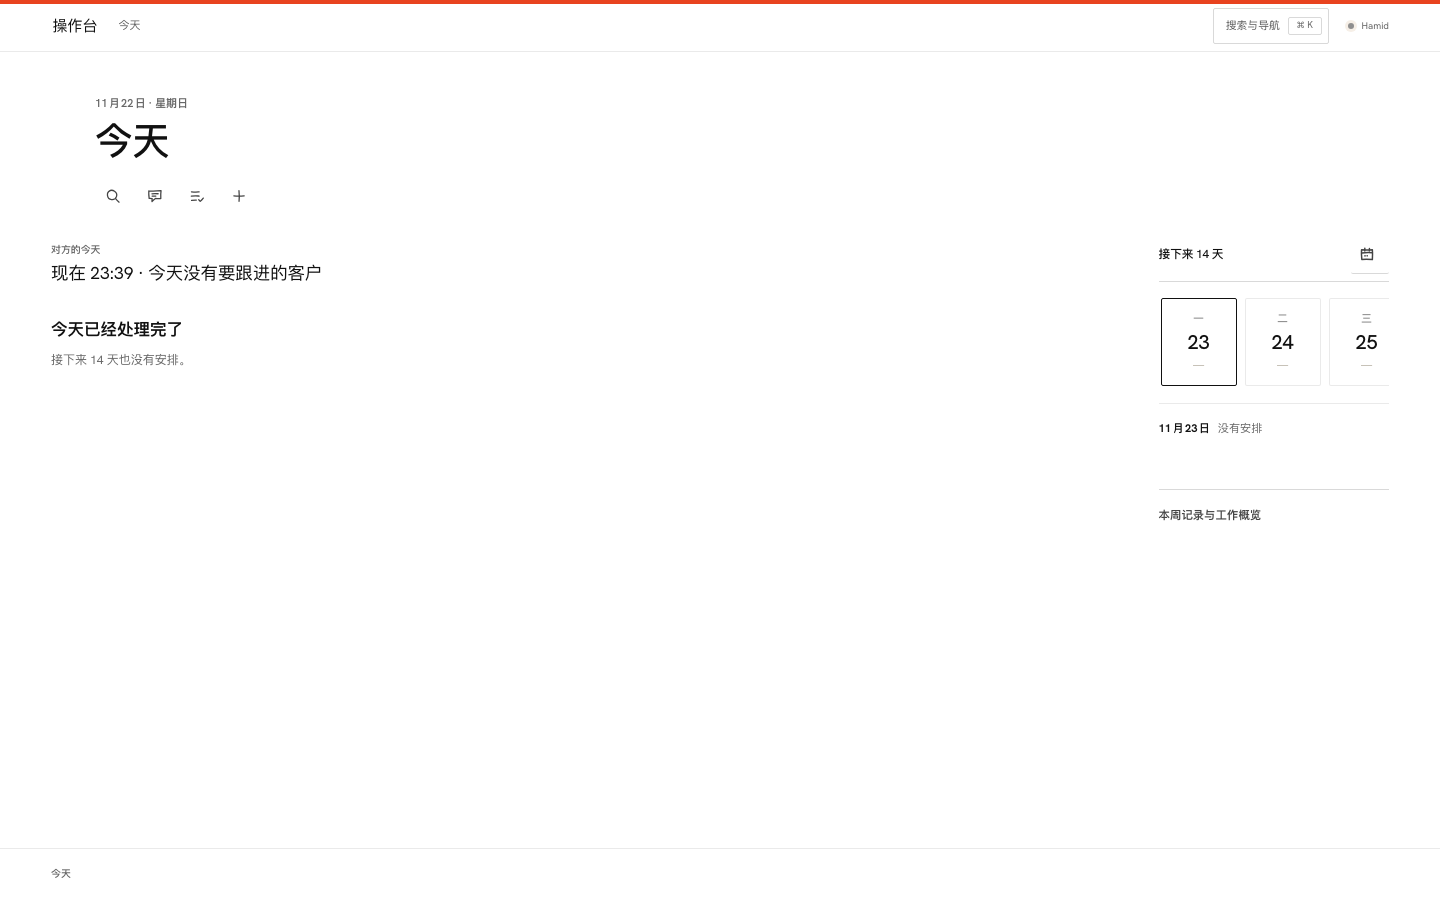
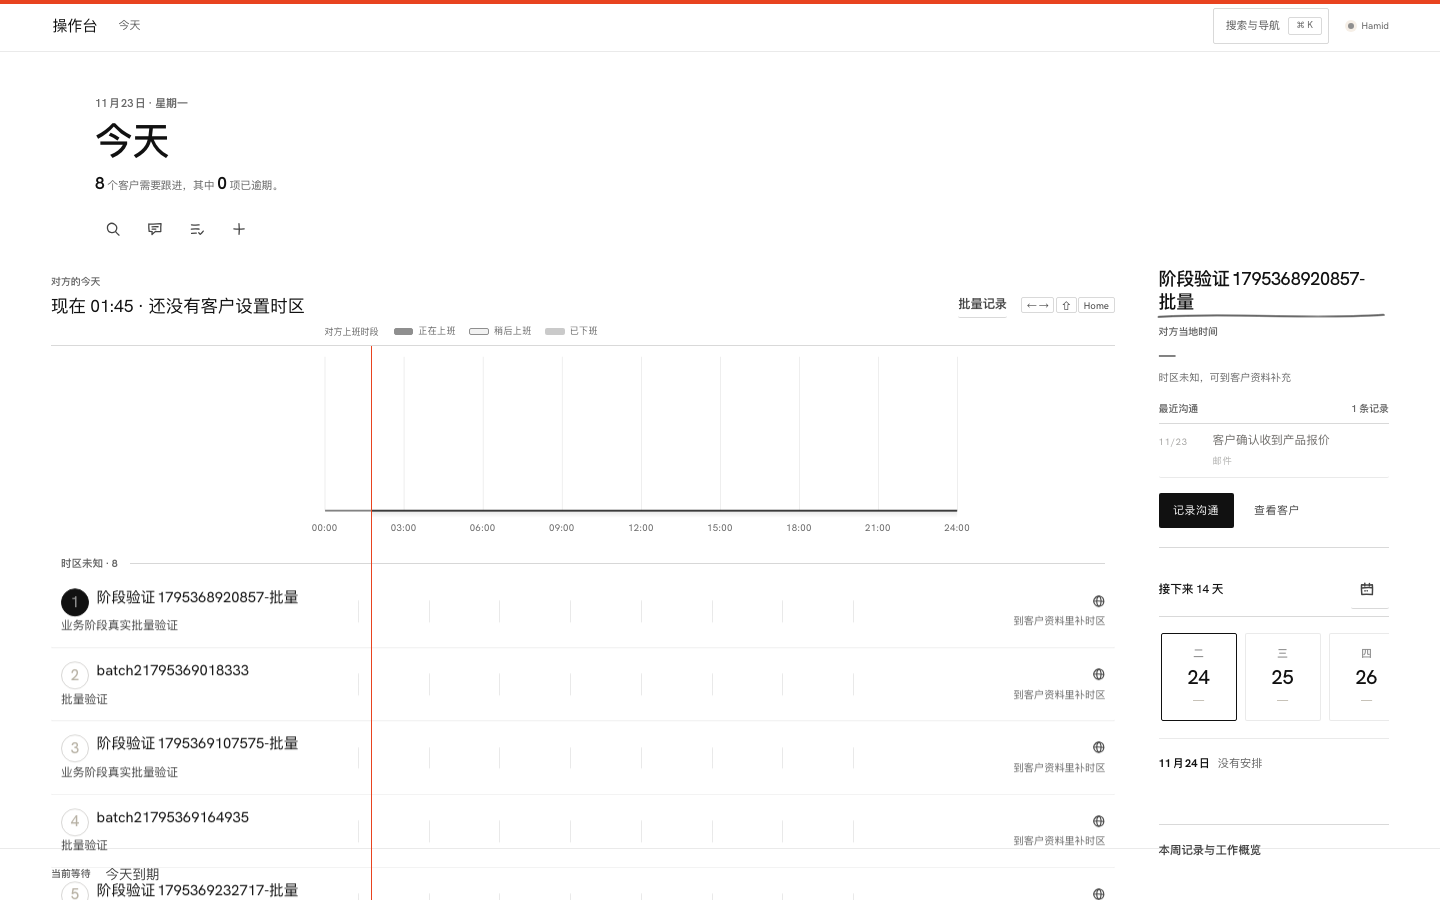
补齐业务阶段真实批量保存验证与旧库迁移兼容
(cherry picked from commit c6c2b53a361acd70c433314c6b5a00d6ba481bfb)

diff --git a/app.py b/app.py
@@ -20768,10 +20768,14 @@ def update_customer_profile(customer_id, data, before_commit=None):
     """Update only ordinary customer profile fields with the standard undo transaction."""
     data = data or {}
     allowed = ('name', 'company', 'country', 'website', 'field', 'industry', 'company_size', 'annual_revenue',
-               'profile', 'notes', 'tags')
+               'profile', 'notes', 'tags', 'business_role', 'business_stage')
     supplied = {key: data[key] for key in allowed if key in data}
     if not supplied:
         raise CrmWriteError('请提供至少一个可更新的客户资料字段')
+    if 'business_role' in supplied and supplied['business_role'] not in ('', '中间商', '终端'):
+        raise CrmWriteError('客户角色只能是中间商、终端或留空')
+    if 'business_stage' in supplied and supplied['business_stage'] not in BUSINESS_STAGE_VALUES:
+        raise CrmWriteError(BUSINESS_STAGE_ERROR)
 
     def operation(conn, c):
         modern_before = _customer_record(conn, customer_id) if postgres_mode() else None
@@ -20793,11 +20797,12 @@ def update_customer_profile(customer_id, data, before_commit=None):
         if postgres_mode():
             _update_customer_record(conn, customer_id=customer_id, values=values)
         else:
-            c.execute('''UPDATE customers SET name=?, company=?, country=?, website=?, field=?, industry=?, company_size=?, annual_revenue=?, profile=?, notes=?, tags=?, timezone=?, timezone_source=?, updated_at=? WHERE id=?''',
+            c.execute('''UPDATE customers SET name=?, company=?, country=?, website=?, field=?, industry=?, company_size=?, annual_revenue=?, profile=?, notes=?, tags=?, business_role=?, business_stage=?, timezone=?, timezone_source=?, updated_at=? WHERE id=?''',
                       (values.get('name', ''), values.get('company', ''), values.get('country', ''), values.get('website', ''),
                        values.get('field', ''), values.get('industry', ''), values.get('company_size', ''),
                        values.get('annual_revenue', ''), values.get('profile', ''), values.get('notes', ''),
-                       values.get('tags', ''), values.get('timezone', ''), values.get('timezone_source', ''), now, customer_id))
+                       values.get('tags', ''), values.get('business_role', ''), values.get('business_stage', ''),
+                       values.get('timezone', ''), values.get('timezone_source', ''), now, customer_id))
         after = _snapshot_entity(conn, 'customers', customer_id)
         undo_token = _create_undo_action(conn, 'UPDATE_CUSTOMER_PROFILE', 'customer', customer_id,
                                          [_undo_entity('customers', customer_id, before, after)], '撤销 Agent 修改客户资料')

diff --git a/db.py b/db.py
@@ -12,6 +12,7 @@ import platform
 import logging
 import shutil
 import json
+import re
 import hashlib
 import time
 import uuid
@@ -2051,18 +2052,31 @@ def _quarantine_duplicate_unmatched_hashes(cursor):
     return quarantined
 
 
+def _sqlite_check_values(table_sql, column):
+    """Read the literal values of a simple ``CHECK(column IN (...))`` clause."""
+    match = re.search(
+        r'CHECK\s*\(\s*["`\[]?' + re.escape(column) + r'["`\]]?\s+IN\s*\(([^)]*)\)',
+        table_sql, re.IGNORECASE,
+    )
+    if not match:
+        return None
+    return {value.replace("''", "'") for value in re.findall(r"'((?:[^']|'')*)'", match.group(1))}
+
+
 def _migrate_customer_level_constraint(cursor):
-    """Allow +/- customer grades while preserving the existing customer rows.
+    """Keep the SQLite grade and business-stage CHECKs in step with the code.
 
     SQLite cannot alter a CHECK constraint in place. Rebuild only the
     customers table, keep all existing columns and indexes, and normalize any
-    legacy unexpected value to C while copying.
+    legacy unexpected value while copying.
     """
     table_row = cursor.execute(
         "SELECT sql FROM sqlite_master WHERE type='table' AND name='customers'"
     ).fetchone()
     table_sql = (table_row[0] or '') if table_row else ''
-    if "'A-'" in table_sql:
+    level_values = _sqlite_check_values(table_sql, 'level')
+    stage_values = _sqlite_check_values(table_sql, 'business_stage')
+    if level_values == set(CUSTOMER_LEVEL_VALUES) and stage_values == set(BUSINESS_STAGE_VALUES):
         return
 
     connection = cursor.connection
@@ -2087,9 +2101,12 @@ def _migrate_customer_level_constraint(cursor):
         columns = [name for name in old_columns if name in new_columns]
         quoted_columns = ', '.join('"' + name.replace('"', '""') + '"' for name in columns)
         allowed_sql = ', '.join("'" + value.replace("'", "''") + "'" for value in CUSTOMER_LEVEL_VALUES)
+        allowed_stage_sql = ', '.join("'" + value.replace("'", "''") + "'" for value in BUSINESS_STAGE_VALUES)
         select_columns = [
             "CASE WHEN \"level\" IN (" + allowed_sql + ") THEN \"level\" ELSE 'C' END"
-            if name == 'level' else '"' + name.replace('"', '""') + '"'
+            if name == 'level' else
+            "CASE WHEN \"business_stage\" IN (" + allowed_stage_sql + ") THEN \"business_stage\" ELSE '' END"
+            if name == 'business_stage' else '"' + name.replace('"', '""') + '"'
             for name in columns
         ]
         cursor.execute(

diff --git a/tests/test_agent_data_freedom.py b/tests/test_agent_data_freedom.py
@@ -716,6 +716,46 @@ class AgentDataFreedomTest(unittest.TestCase):
             finally:
                 conn.close()
 
+            # The two business fields travel through --json, not dedicated flags.
+            conn = sqlite3.connect(db.get_user_db_path('hamid'))
+            try:
+                conn.execute("UPDATE customers SET business_role='中间商', business_stage='成交' WHERE id=?",
+                             (customer_id,))
+                conn.commit()
+            finally:
+                conn.close()
+            business_update = run('update-customer', str(customer_id), '--json', json.dumps({
+                'business_role': '终端', 'business_stage': '报过价',
+            }, ensure_ascii=False))
+            business_action = business_update['data']['action']['id']
+            conn = sqlite3.connect(db.get_user_db_path('hamid'))
+            try:
+                self.assertEqual(conn.execute(
+                    'SELECT business_role, business_stage, notes FROM customers WHERE id=?',
+                    (customer_id,)).fetchone(), ('终端', '报过价', ''))
+            finally:
+                conn.close()
+            run('undo', business_action)
+            conn = sqlite3.connect(db.get_user_db_path('hamid'))
+            try:
+                self.assertEqual(conn.execute(
+                    'SELECT business_role, business_stage, notes FROM customers WHERE id=?',
+                    (customer_id,)).fetchone(), ('中间商', '成交', ''))
+            finally:
+                conn.close()
+            with self.assertRaises(trosa_cli.CliError) as invalid:
+                run('update-customer', str(customer_id), '--json', json.dumps({
+                    'business_role': '经销商', 'business_stage': '报过价',
+                }, ensure_ascii=False))
+            self.assertIn('客户角色', str(invalid.exception))
+            conn = sqlite3.connect(db.get_user_db_path('hamid'))
+            try:
+                self.assertEqual(conn.execute(
+                    'SELECT business_role, business_stage FROM customers WHERE id=?',
+                    (customer_id,)).fetchone(), ('中间商', '成交'))
+            finally:
+                conn.close()
+
             task = run('create-task', str(customer_id), '--title', 'CLI 跟进', '--due', '2026-10-20')
             task_id = task['data']['action']['related_id']
             self.assertTrue(task_id)

diff --git a/tests/test_risk_regressions.py b/tests/test_risk_regressions.py
@@ -64,6 +64,34 @@ class IsolatedDatabaseTest(unittest.TestCase):
         finally:
             conn.close()
 
+    def test_old_sqlite_stage_check_is_rebuilt_without_losing_rows(self):
+        conn = sqlite3.connect(db.get_user_db_path('hamid'))
+        try:
+            conn.execute("""CREATE TABLE customers (
+                id INTEGER PRIMARY KEY AUTOINCREMENT,
+                name TEXT NOT NULL,
+                level TEXT DEFAULT 'C' CHECK(level IN ('A', 'A+', 'A-', 'B', 'B+', 'B-', 'C', 'C+', 'C-', 'D', 'D+', 'D-')),
+                business_stage TEXT DEFAULT '' CHECK(business_stage IN ('', '成交', '流失')),
+                notes TEXT DEFAULT '保持不动'
+            )""")
+            conn.execute("INSERT INTO customers(name, level, business_stage) VALUES ('老客户', 'A-', '成交')")
+            conn.commit()
+            cursor = conn.cursor()
+            db._migrate_customer_level_constraint(cursor)
+            row = conn.execute(
+                'SELECT name, level, business_stage, notes FROM customers').fetchone()
+            self.assertEqual(tuple(row), ('老客户', 'A-', '成交', '保持不动'))
+            table_sql = conn.execute(
+                "SELECT sql FROM sqlite_master WHERE type='table' AND name='customers'").fetchone()[0]
+            self.assertEqual(db._sqlite_check_values(table_sql, 'business_stage'),
+                             set(db.BUSINESS_STAGE_VALUES))
+            conn.execute("INSERT INTO customers(name, business_stage) VALUES ('新阶段', '报过价')")
+            with self.assertRaises(sqlite3.IntegrityError):
+                conn.execute("INSERT INTO customers(name, business_stage) VALUES ('乱阶段', '已报价')")
+            conn.commit()
+        finally:
+            conn.close()
+
     def test_demo_data_requires_explicit_switch(self):
         db.init_all_dbs()
         os.environ['CRM_SEED_DEMO_DATA'] = 'true'

diff --git a/docs/repro/business-stage/README.md b/docs/repro/business-stage/README.md
@@ -3,8 +3,8 @@
 - 现象：Trosa 的业务阶段只有「成交 / 流失 / 留空」，Sela 那边的「回复过 / 寄过样品 / 报过价」没有对应取值；批量改阶段、页面筛选和客户编辑弹窗也都不认识这些阶段。
 - 修复：Trosa 用一个统一清单保存和校验六个值（留空 / 回复过 / 寄过样品 / 报过价 / 成交 / 流失），四处下拉和批量弹窗同步；Sela 按整个字段值精确映射，不做子串猜测；迁移 0141 只放宽正式库这一列的取值限制。徽章给三个新阶段加了可区分的低饱和颜色，成交和流失的外观不动。
 - 重现脚本：`tools/repro_business_stage.cjs`（用 `tools/repro_dev_server.py` 起隔离开服，不碰业务库）
-  - `before/`：修复前源码，退出码 20（2/11）。四个下拉只有成交/流失，新阶段 API 返回 400，列表筛选选不出新阶段，五个徽章全是同一个灰色。
-  - `after/`：修复后，退出码 0（11/11）。六个值逐档写入并能从真实详情接口读回，乱值返回 400，客户编辑弹窗载入「报过价」，批量弹窗与筛选可用，三个新徽章颜色两两可分且不同于默认样式，成交/流失保持原样，无页面报错。
+  - `before/`：修复前源码，退出码 20（2/13）。四个下拉只有成交/流失，新阶段 API 返回 400，客户编辑弹窗和真实批量保存无法载入新阶段，列表筛选选不出新阶段，五个徽章全是同一个灰色。
+  - `after/`：修复后，退出码 0（13/13）。六个值逐档写入并能从真实详情接口读回，乱值返回 400；客户编辑弹窗点「保存修改」、今天页选中客户后点「快速编辑」并点「保存到所选客户」都能写入新阶段；列表筛选可用，三个新徽章颜色两两可分且不同于默认样式，成交/流失保持原样，无页面报错。
 - 复跑命令（先把隔离服务起在对应端口）：
 
 ```bash
@@ -12,4 +12,4 @@ node tools/repro_business_stage.cjs --url http://127.0.0.1:18192 --label before 
 node tools/repro_business_stage.cjs --url http://127.0.0.1:18191 --label after --out docs/repro/business-stage/after
 ```
 
-- `report.json` 保存了每一项的详细实测值；`01-signed-in.png`、`02-customer-editor.png`、`03-badge-colours.png` 是真实浏览器截图。
+- `report.json` 保存了每一项的详细实测值；`01-signed-in.png`、`02-customer-editor.png`、`03-customer-editor-saved.png`、`04-batch-saved.png`、`05-badge-colours.png` 是真实浏览器截图。
